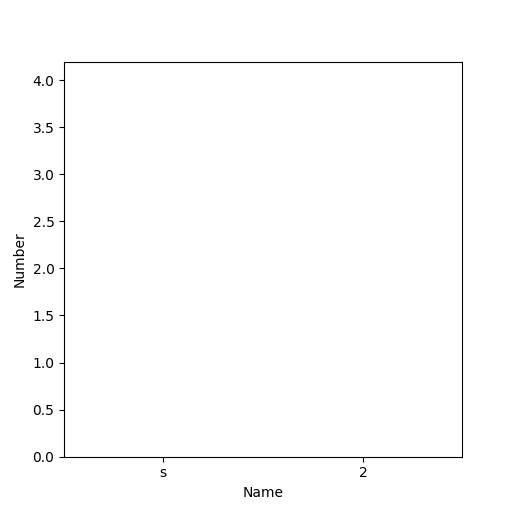
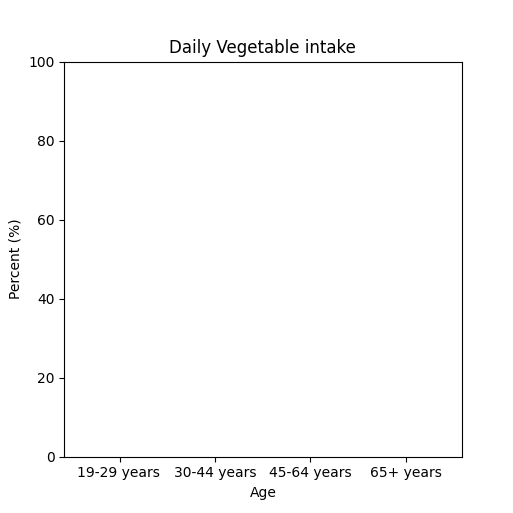
changed inpainting model to generic stable diffusion

diff --git a/app.py b/app.py
@@ -1,6 +1,6 @@
 from flask import Flask, render_template, request, redirect, url_for, send_file, jsonify
 import torch
-from diffusers import StableDiffusionInpaintPipeline
+from diffusers import AutoPipelineForInpainting
 import pandas as pd
 import matplotlib.pyplot as plt
 from PIL import Image, ImageDraw
@@ -17,16 +17,16 @@ app = Flask(__name__)
 
 # Load your model
 device = "cuda"
-model_path = "stabilityai/stable-diffusion-2-inpainting"
-
-pipe_2 = StableDiffusionInpaintPipeline.from_pretrained(
-    model_path,
-    torch_dtype=torch.float16,
+pipeline = AutoPipelineForInpainting.from_pretrained(
+    "runwayml/stable-diffusion-v1-5", torch_dtype=torch.float16, variant="fp16"
 ).to(device)
+pipeline.enable_model_cpu_offload()
+# remove following line if xFormers is not installed or you have PyTorch 2.0 or higher installed
+pipeline.enable_xformers_memory_efficient_attention()
 
 key = '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'
 prompt = PromptTemplate.from_template(
-        "provide me with an object with one or two words relevant to this topic: {content}. The object should be a noun, not a concept."
+        "extract one object from the following content: {content}. the object should be easy to recognize and paint. answer should be a single word."
     )
 
 model = OpenAI(openai_api_key = key)
@@ -53,8 +53,8 @@ def Chart():
 
     # Assuming the CSV has columns 'name' and 'number'
 
-    var_1 = 'Name'
-    var_2 = 'Number'
+    var_1 = 'Age'
+    var_2 = 'Percent (%)'
     df.columns = [var_1, var_2]
 
     # Create a figure and an axes object
@@ -62,7 +62,7 @@ def Chart():
 
     # Plotting using the axes object
     ax.bar(df[var_1], df[var_2])
-    #ax.set_ylim(0, 100)  # Set y-axis limits
+    ax.set_ylim(0, 100)  # Set y-axis limits
 
     # Add labels using the axes object
     ax.set_xlabel(var_1)
@@ -123,9 +123,10 @@ def Picto():
 
     # Assuming the CSV has columns 'name' and 'number'
 
-    var_1 = 'Name'
-    var_2 = 'Number'
+    var_1 = 'Age'
+    var_2 = 'Percent (%)'
     df.columns = [var_1, var_2 ]
+     
 
     # Create a figure and an axes object
     fig, ax = plt.subplots(figsize=(5.13, 5.13))  # Adjusted figure size for better fit
@@ -138,6 +139,7 @@ def Picto():
     ax.set_xlabel(var_1)
     ax.set_ylabel(var_2)
     ax.set_title(title)
+    ax.set_ylim(0, 100)
 
 
     fig.savefig('chart.png')
@@ -204,7 +206,7 @@ def Picto():
     StablePrompt = chain.invoke({'content': title + bullet_content}) 
     print(StablePrompt)
 
-    prompt=StablePrompt[2:] 
+    prompt="realistic" + StablePrompt[2:] 
     negative_prompt="text, deformed, indistinct"
 
 
@@ -218,18 +220,20 @@ def Picto():
 
     guidance_scale=20
     num_samples = 1
+    steps =30
 
-    generator = torch.Generator(device="cuda").manual_seed(-1) # change the seed to get different results
 
-    images = pipe_2(
+    #generator = torch.Generator(device="cuda").manual_seed(-1) # change the seed to get different results
+
+    images = pipeline(
         prompt=prompt,
         negative_prompt=negative_prompt,
         image=image,
         mask_image=mask_image,
         guidance_scale=guidance_scale,
-        generator=generator,
+        num_inference_steps=steps,
+        #generator=generator,
         num_images_per_prompt=num_samples,
-        strength=0.9,
     ).images
 
     mask_image = mask_image.convert('L')
